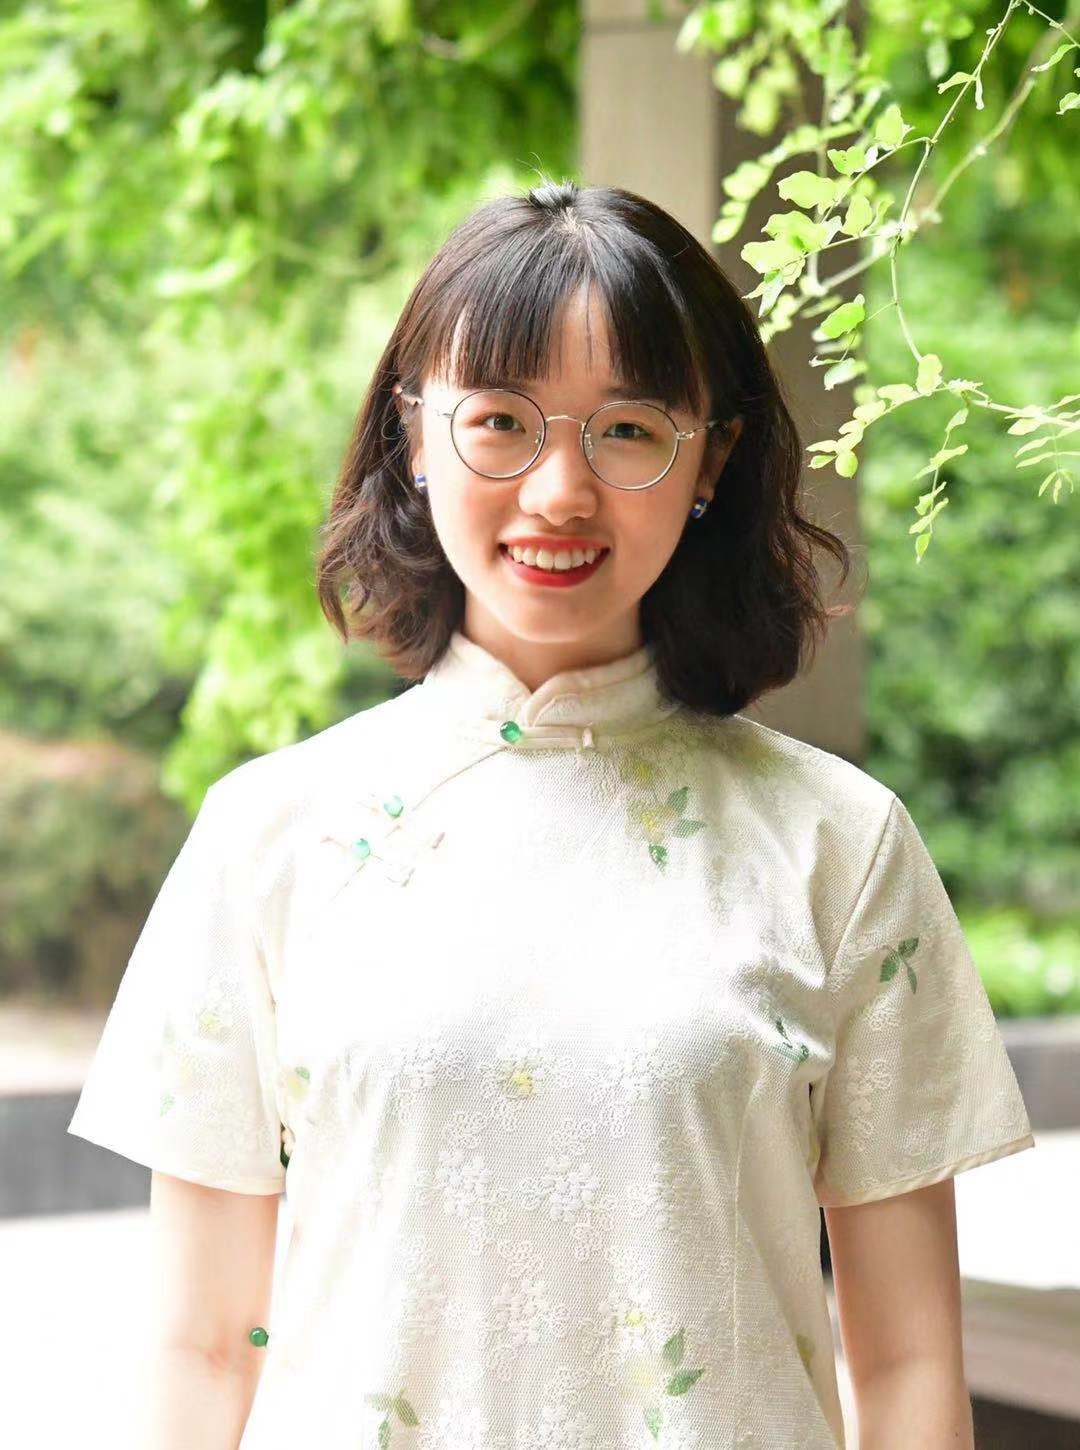
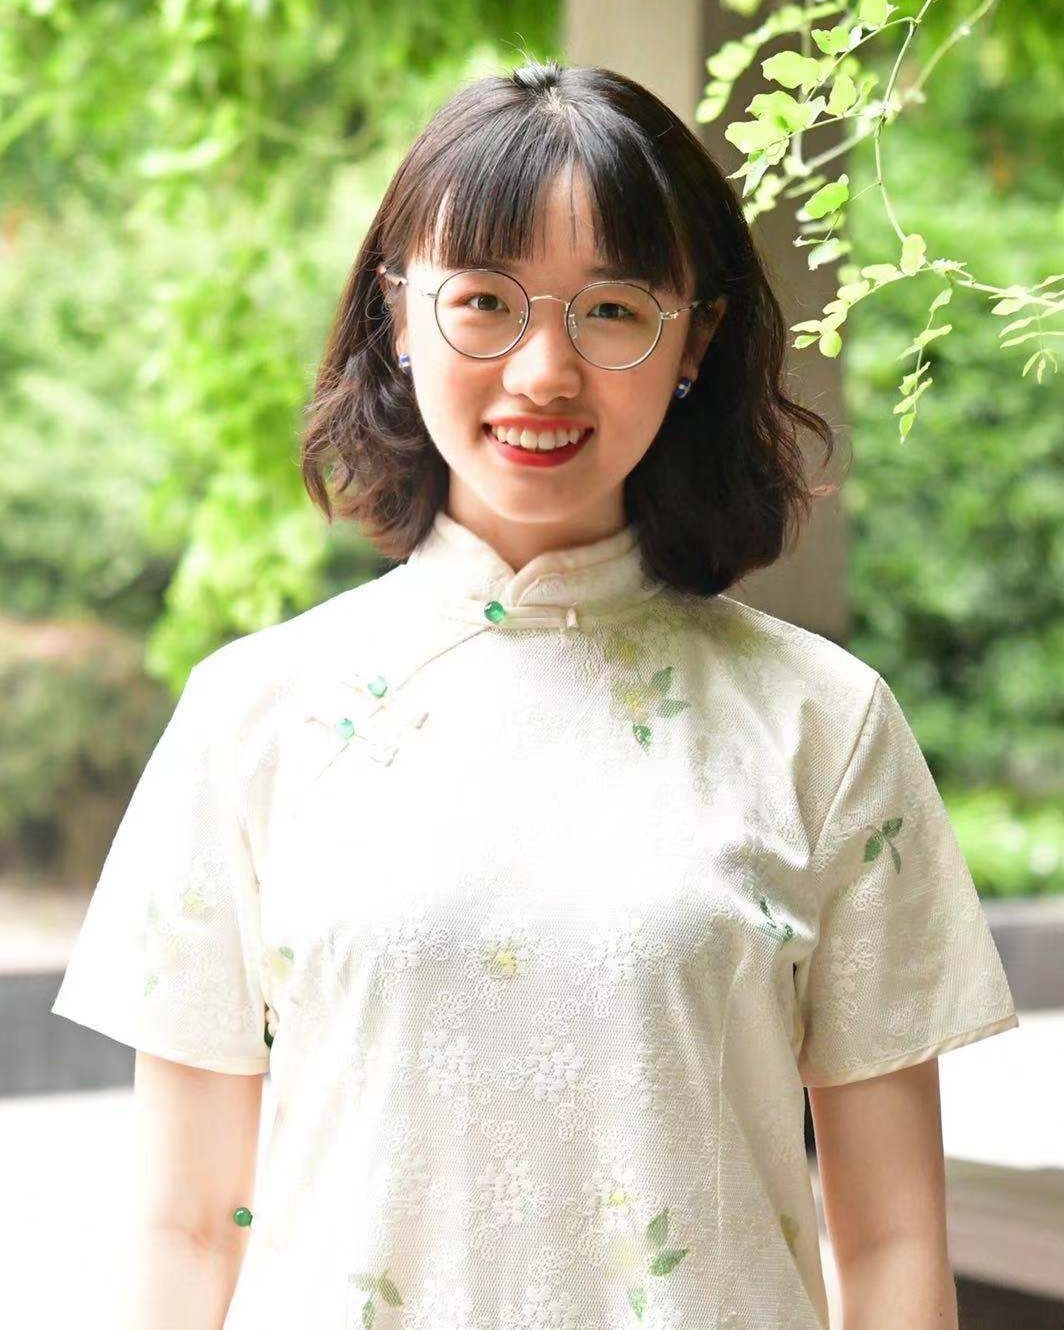
deploy: bacc034551f1853c252c9ea1402362189a620efa

diff --git a/index.html b/index.html
@@ -293,7 +293,7 @@ Active Members
 <div class=card-image>
 <figure class="image is-4by5">
 <a href=https://eecs129.site/members/active/linhuiping/>
-<img src=https://eecs129.site/members/active/linhuiping/photo_hu037f5d6c37b59cc622f2dc147ae0eb09_149091_400x500_fill_q75_box_smart1.jpg alt=photo.jpg>
+<img src=https://eecs129.site/members/active/linhuiping/photo_hu26928b34cdef1f63a303517bc34cf28b_250705_400x500_fill_q75_box_smart1.jpg alt=photo.jpg>
 </a>
 </figure>
 </div>
@@ -501,7 +501,7 @@ Active Members
 <header class="modal-card-header bottom-pad">
 <p class="modal-card-title has-text-centered">林汇平</p>
 </header>
-<img src=https://eecs129.site/members/active/linhuiping/photo_hu037f5d6c37b59cc622f2dc147ae0eb09_149091_500x500_fill_q75_box_smart1.jpg class=img-responsive alt=photo.jpg>
+<img src=https://eecs129.site/members/active/linhuiping/photo_hu26928b34cdef1f63a303517bc34cf28b_250705_500x500_fill_q75_box_smart1.jpg class=img-responsive alt=photo.jpg>
 <section class="modal-card-body markdown">
 <p>林汇平，信息科学技术学院图灵班（CS方向）2018级本科生。会弹一点钢琴，喜欢古典乐和摇滚乐。</p>
 <p>2018-2019年于北京大学学生合唱二团女高声部学习，2019年起加入信科129教唱组，负责女高声部教唱。</p>

diff --git a/members/active/linhuiping/index.html b/members/active/linhuiping/index.html
@@ -44,7 +44,7 @@ Member
 <hr>
 </div>
 <div class="container markdown top-pad">
-<img src=https://eecs129.site/members/active/linhuiping/photo_hu037f5d6c37b59cc622f2dc147ae0eb09_149091_0x720_resize_q75_box.jpg alt=photo.jpg>
+<img src=https://eecs129.site/members/active/linhuiping/photo_hu26928b34cdef1f63a303517bc34cf28b_250705_0x720_resize_q75_box.jpg alt=photo.jpg>
 <p>林汇平，信息科学技术学院图灵班（CS方向）2018级本科生。会弹一点钢琴，喜欢古典乐和摇滚乐。</p>
 <p>2018-2019年于北京大学学生合唱二团女高声部学习，2019年起加入信科129教唱组，负责女高声部教唱。</p>
 <p>个人主页<a href=https://lhp-pku.top/>https://lhp-pku.top/</a>。邮箱phoenixrain@pku.edu.cn。</p>

diff --git a/members/index.html b/members/index.html
@@ -227,7 +227,7 @@ Active Members
 <div class=card-image>
 <figure class="image is-4by5">
 <a href=https://eecs129.site/members/active/linhuiping/>
-<img src=https://eecs129.site/members/active/linhuiping/photo_hu037f5d6c37b59cc622f2dc147ae0eb09_149091_400x500_fill_q75_box_smart1.jpg alt=photo.jpg>
+<img src=https://eecs129.site/members/active/linhuiping/photo_hu26928b34cdef1f63a303517bc34cf28b_250705_400x500_fill_q75_box_smart1.jpg alt=photo.jpg>
 </a>
 </figure>
 </div>

diff --git a/members/active/index.html b/members/active/index.html
@@ -181,7 +181,7 @@ Member
 <div class=card-image>
 <figure class="image is-3by2">
 <a href=https://eecs129.site/members/active/linhuiping/>
-<img src=https://eecs129.site/members/active/linhuiping/photo_hu037f5d6c37b59cc622f2dc147ae0eb09_149091_600x400_fill_q75_box_smart1.jpg alt=photo.jpg>
+<img src=https://eecs129.site/members/active/linhuiping/photo_hu26928b34cdef1f63a303517bc34cf28b_250705_600x400_fill_q75_box_smart1.jpg alt=photo.jpg>
 </a>
 </figure>
 </div>
